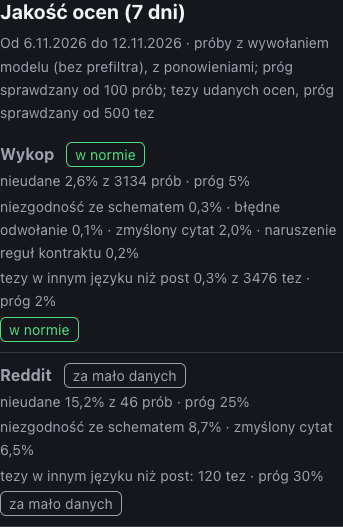
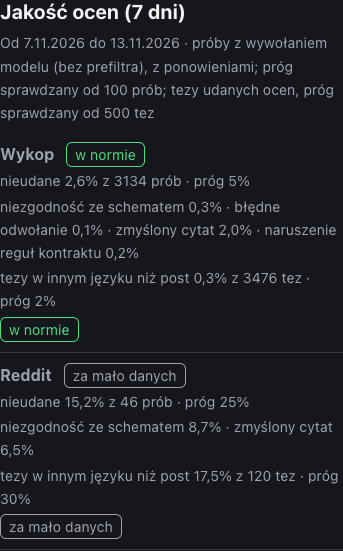
fix(statement-language-quality): the language row shows its share below the minimum too (review F6)
Like the failed attempts' row, the language row now shows its share below
minTheses (the badge says the threshold is not checked); without a thesis it
shows "0 tez". The "few" screenshots are retaken.

Claude-Session: https://claude.ai/code/session_01HDNxSLoqXF5Rjh2dwMm1Bz

diff --git a/szczur-radar-web/src/views/AdminView.vue b/szczur-radar-web/src/views/AdminView.vue
@@ -181,14 +181,13 @@ function failedText(row: SourceQuality): string {
 const LANGUAGE_MEASURE = 'tezy w innym języku niż post'
 
 /**
- * E.g. `tezy w innym języku niż post 0,3% z 3476 tez · próg 2%`; below `minTheses` only the number of theses,
- * e.g. `tezy w innym języku niż post: 46 tez · próg 2%`.
+ * E.g. `tezy w innym języku niż post 0,3% z 3476 tez · próg 2%`, also below `minTheses` like the failed attempts'
+ * row (the badge says the threshold is not checked); without a thesis `tezy w innym języku niż post: 0 tez · próg 30%`.
  */
 function languageText(language: LanguageShare): string {
   const limit = `próg ${threshold.format(language.thresholdPercent / 100)}`
-  if (language.status === 'not_enough_data') {
-    const theses = `${language.theses} ${plural(language.theses, 'teza', 'tezy', 'tez')}`
-    return `${LANGUAGE_MEASURE}: ${theses} · ${limit}`
+  if (language.theses === 0) {
+    return `${LANGUAGE_MEASURE}: 0 tez · ${limit}`
   }
   const theses = `${language.theses} ${plural(language.theses, 'tezy', 'tez', 'tez')}`
   return `${LANGUAGE_MEASURE} ${share.format(language.otherLanguage / language.theses)} z ${theses} · ${limit}`

diff --git a/szczur-radar-web/src/views/AdminView.test.ts b/szczur-radar-web/src/views/AdminView.test.ts
@@ -755,12 +755,12 @@ describe('AdminView', () => {
       expect(rows.map((row) => row.find('.status-badge').attributes('data-tone'))).toEqual(['success', 'warning'])
     })
 
-    it('shows only the number of theses below minTheses, in a neutral tone, also without a thesis', async () => {
+    it('shows the share below minTheses like the failed attempts, in a neutral tone, and no share without a thesis', async () => {
       vi.mocked(fetchAssessmentQuality).mockResolvedValue(sampleAssessmentQualityFewAttempts)
       const wrapper = await mountAdmin()
       const rows = section(wrapper).findAll('.quality-language')
       expect(rows.map((row) => row.find('span').text())).toEqual([
-        'tezy w innym języku niż post: 46 tez · próg 2%',
+        'tezy w innym języku niż post 2,2% z 46 tez · próg 2%',
         'tezy w innym języku niż post: 0 tez · próg 30%',
       ])
       expect(rows.map((row) => row.find('.status-badge').text())).toEqual(['za mało danych', 'za mało danych'])

diff --git a/context/changes/statement-language-quality/screenshots/phase-4/README.md b/context/changes/statement-language-quality/screenshots/phase-4/README.md
@@ -9,7 +9,7 @@ copies of the mock with `QUALITY` (or `MODE`) replaced. Widths 1280 px and 375 p
 | `data-dark-1280.png` | `data` | dark | 1280 | the same |
 | `data-light-375.png` | `data` | light | 375 | the same, wrapped |
 | `data-dark-375.png` | `data` | dark | 375 | the same, wrapped |
-| `few-light-1280.png` | `QUALITY = 'few'` | light | 1280 | Reddit's language below `minTheses`: `…: 120 tez · próg 30%` with `za mało danych` (neutral) |
+| `few-light-1280.png` | `QUALITY = 'few'` | light | 1280 | Reddit's language below `minTheses`: `… 17,5% z 120 tez · próg 30%` with `za mało danych` (neutral); the share shows below the minimum as in the failed attempts' row (review F6, retaken 2026-11-13) |
 | `few-dark-375.png` | `few` | dark | 375 | the same |
 | `nolang-light-1280.png` | `QUALITY = 'nolang'` | light | 1280 | `language: null`: "tezy w innym języku niż post: nie udało się policzyć" without a badge, the failed attempts unchanged |
 | `nolang-dark-1280.png` | `nolang` | dark | 1280 | the same |
